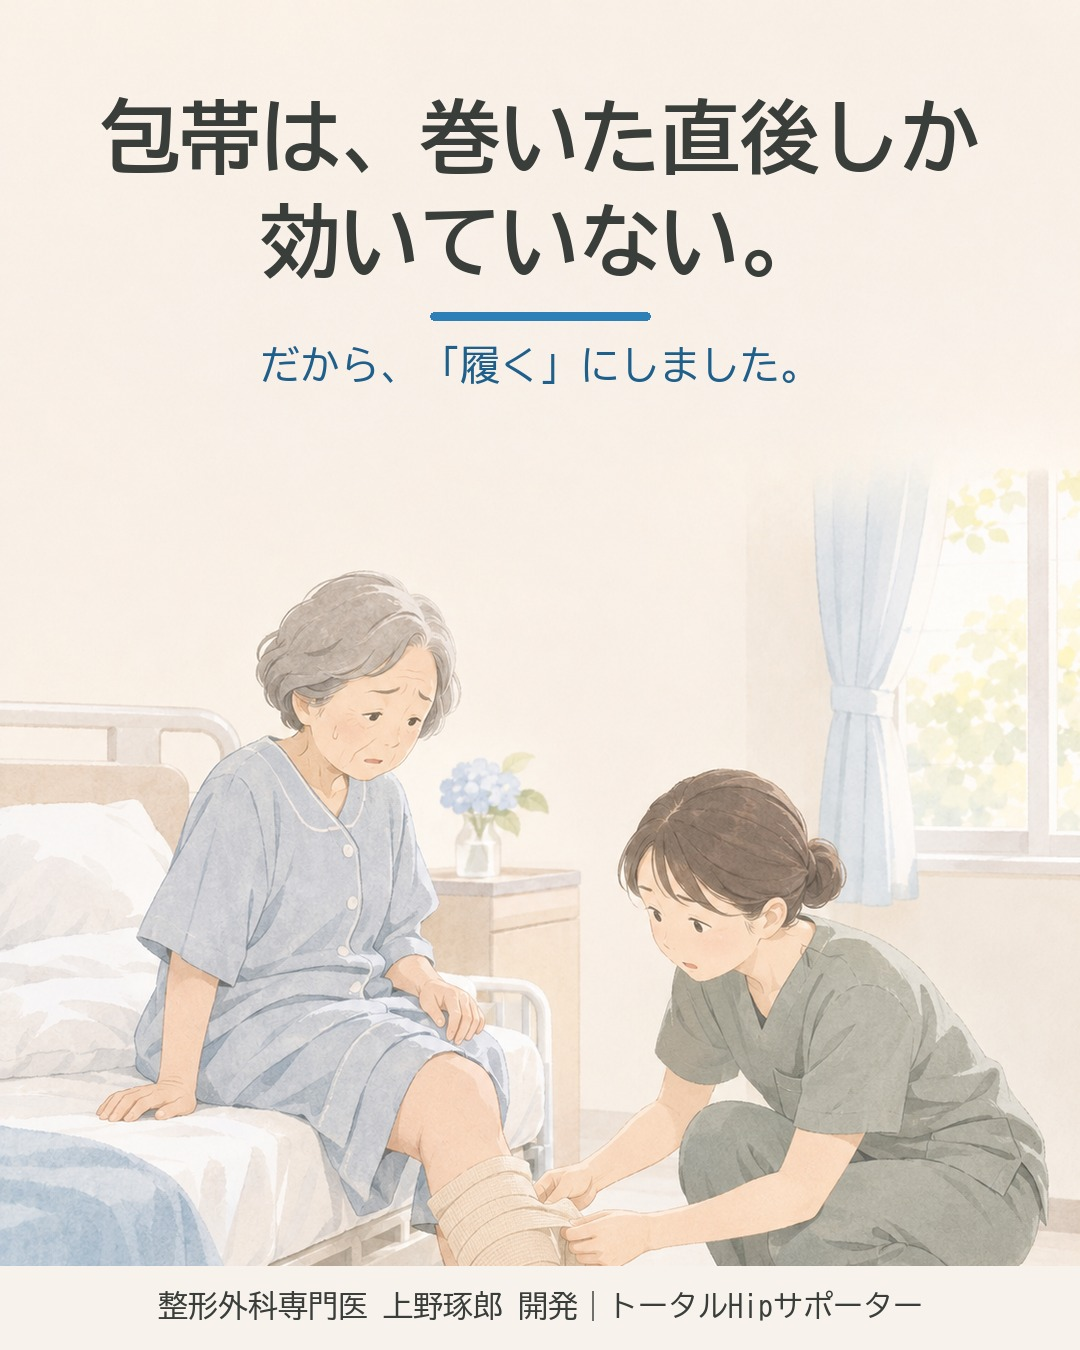
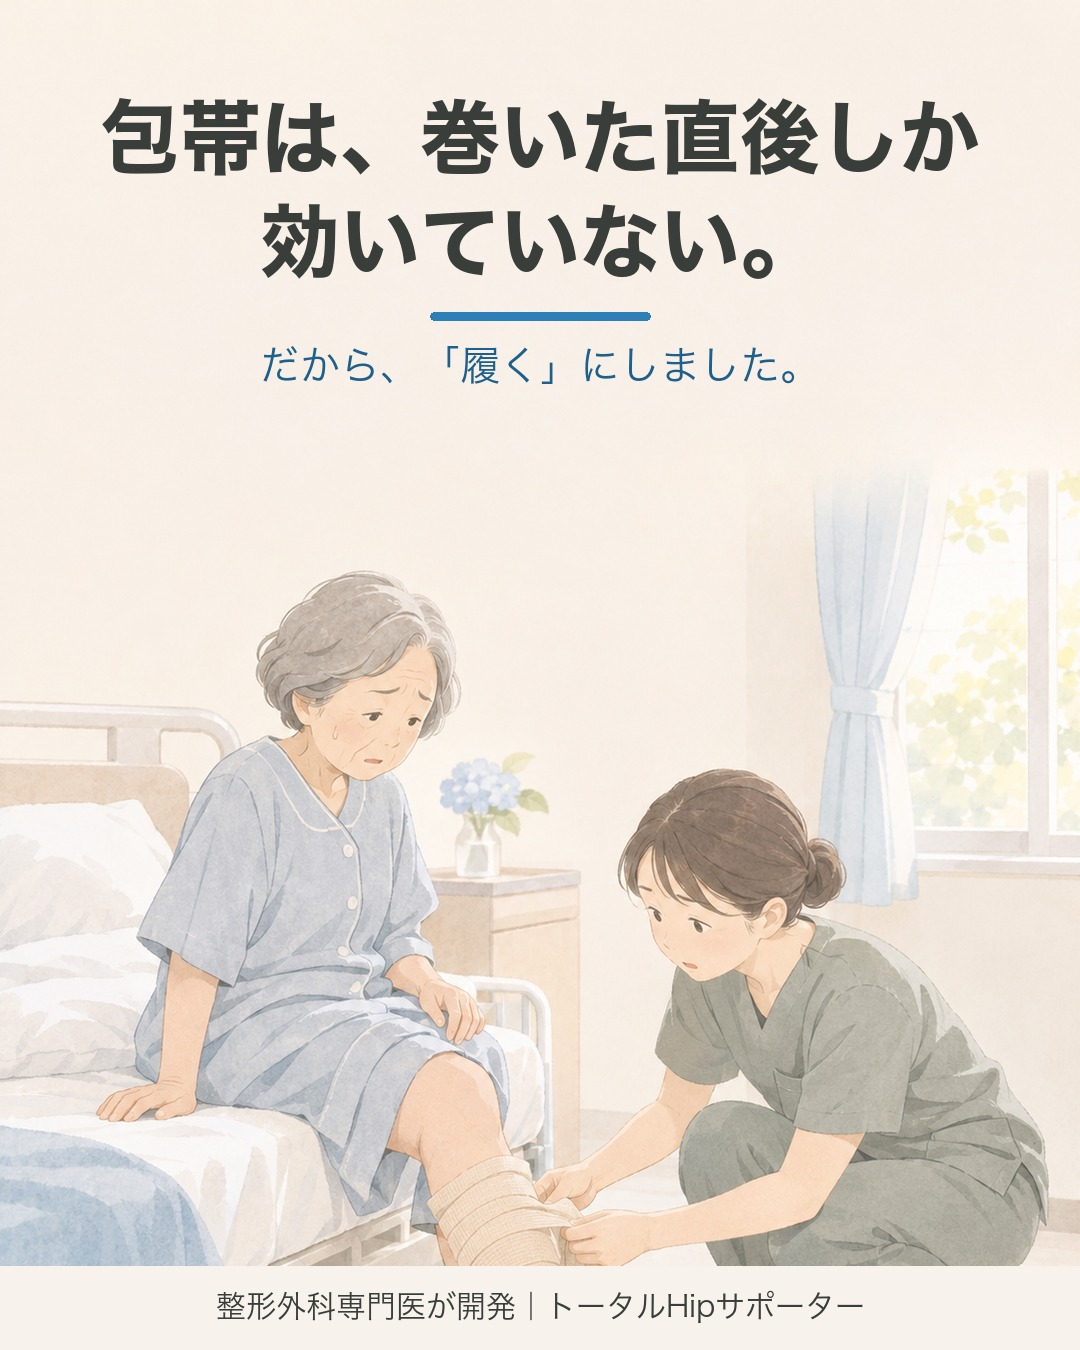
Instagram投稿の組み直しとストーリーズ1週間分を記録
氏名入りのまま残っていた#01画像を氏名なし版に置換。誤削除後の予約（11/8〜11/17）と、
11/8〜11/14毎日12:00のストーリーズ7本の予約を投稿ログへ追記。ストーリーズ画像と生成スクリプトを追加。

diff --git a/assets/instagram/make_stories.py b/assets/instagram/make_stories.py
@@ -1,0 +1,81 @@
+# -*- coding: utf-8 -*-
+"""Instagramストーリーズ画像（1080x1920）を作る。上下の操作UIに隠れない範囲に文字を置く。
+使い方: python make_stories.py
+"""
+from PIL import Image, ImageDraw, ImageFont
+import os
+
+HERE = os.path.dirname(os.path.abspath(__file__))
+OUT = os.path.join(HERE, "stories")
+POSTS = os.path.join(HERE, "posts")
+SITE = os.path.join(HERE, "..", "..", "site", "images")
+FB = r"C:\Windows\Fonts\BIZ-UDGothicB.ttc"
+FR = r"C:\Windows\Fonts\BIZ-UDGothicR.ttc"
+INK = (58, 62, 58); BLUE = (45, 127, 184); BLUED = (31, 95, 139); CREAM = (247, 243, 236); GREY = (110, 110, 105)
+FOOT = "整形外科専門医が開発｜トータルHipサポーター"
+NOTE = "※本品は医療機器ではありません。ご使用は医師の指導のもとで。"
+W, H = 1080, 1920
+TOP, IMG_T, IMG_B, NOTE_Y, FOOT_Y = 250, 690, 1370, 1400, 1510
+
+STORIES = [
+    ("1108_postpartum", ["骨盤ベルトを、", "トイレのたびに", "外していませんか。"], "「履く」なら、そのまま", os.path.join(POSTS, "03_src.png"), 0.85,
+     "くわしくはプロフィールのリンクから"),
+    ("1109_size", ["迷ったら、", "1〜2サイズ上。"], "圧迫力を強めにつくっているから", os.path.join(SITE, "illust-senior-wear.webp"), 0.5,
+     "サイズの相談はDMへ（ウエスト・太もも周りを教えてください）"),
+    ("1110_knit", ["靴下メーカーが、", "編んでいます。"], "弱・中・強の3段階は、編み方そのもので", os.path.join(SITE, "illust-senior-zone.webp"), 0.5,
+     "富山県高岡市・助野 おたすけのLAB"),
+    ("1111_bandage", ["包帯は、巻いた直後しか", "効いていない。"], "だから、「履く」にしました。", os.path.join(POSTS, "01_src.png"), 0.85,
+     "くわしくはプロフィールのリンクから"),
+    ("1112_catheter", ["手術直後から", "使えるのは、", "開口部があるから。"], "カテーテルを通して履けます", os.path.join(SITE, "illust-surgery-wear.webp"), 0.5,
+     "くわしい手順はプロフィールのリンクから"),
+    ("1113_wear", ["動くときに履く。", "休むときは脱ぐ。"], "散歩、買い物、リハビリに", os.path.join(SITE, "illust-senior-exercise.webp"), 0.5,
+     "自宅でできる体操はプロフィールのリンクから"),
+    ("1114_walk", ["散歩に行くとき、", "履く。"], "衣服の下に目立たない、薄手のメッシュ", os.path.join(POSTS, "07_src.png"), 0.8,
+     "くわしくはプロフィールのリンクから"),
+]
+
+
+def tw(d, s, f):
+    l, t, r, b = d.textbbox((0, 0), s, font=f)
+    return r - l
+
+
+def center(d, y, s, f, fill):
+    d.text(((W - tw(d, s, f)) / 2, y), s, font=f, fill=fill)
+
+
+def fit(d, s, path, max_w, start):
+    size = start
+    while size > 30 and tw(d, s, ImageFont.truetype(path, size)) > max_w:
+        size -= 2
+    return ImageFont.truetype(path, size)
+
+
+def cover(img, w, h, anchor):
+    r = max(w / img.width, h / img.height)
+    im = img.resize((round(img.width * r), round(img.height * r)), Image.LANCZOS)
+    x = (im.width - w) // 2; y = round((im.height - h) * anchor)
+    return im.crop((x, y, x + w, y + h))
+
+
+def make(name, head, sub, src, anchor, note):
+    base = Image.new("RGB", (W, H), CREAM)
+    base.paste(cover(Image.open(src).convert("RGB"), W, IMG_B - IMG_T, anchor), (0, IMG_T))
+    d = ImageDraw.Draw(base)
+    size = min(fit(d, s, FB, W * 0.88, 76).size for s in head)
+    f = ImageFont.truetype(FB, size)
+    y = TOP if len(head) == 3 else TOP + 44
+    for line in head:
+        center(d, y, line, f, INK); y += int(size * 1.3)
+    d.rounded_rectangle((W / 2 - 110, y + 6, W / 2 + 110, y + 14), radius=4, fill=BLUE)
+    center(d, y + 34, sub, fit(d, sub, FR, W * 0.88, 38), BLUED)
+    center(d, NOTE_Y, note, fit(d, note, FR, W * 0.88, 34), BLUED)
+    center(d, NOTE_Y + 52, NOTE, fit(d, NOTE, FR, W * 0.88, 26), GREY)
+    center(d, FOOT_Y, FOOT, ImageFont.truetype(FR, 30), INK)
+    base.save(os.path.join(OUT, name + ".jpg"), quality=92)
+
+
+if __name__ == "__main__":
+    os.makedirs(OUT, exist_ok=True)
+    for s in STORIES:
+        make(*s)

diff --git a/docs/instagram/運用設計_2026-11-01.md b/docs/instagram/運用設計_2026-11-01.md
@@ -332,4 +332,15 @@ doi: 10.1016/j.jjoisr.2026.04.002
 
 2026-11-06 追記: #07は氏名入り画像のまま11/5に公開された（要削除・再投稿）。#03は Business Suite の「投稿の編集」で氏名なし画像に差し替え済み（11/8 19:00のまま）。#11は本文・画像とも氏名ありで予約が残っており、ユーザーが下書きへ移す。#06・#02は予約されていない。Instagram本体の日時指定カレンダーにはBusiness Suiteの予約が出ない。
 
+2026-11-07 追記: ユーザーが誤って公開済み2本（#01・#07）と予約の#11を削除したため、氏名なしで組み直した。Business Suiteの予約は次の4本。
+
+| 日時（予約） | # | 内容 | 画像 |
+|---|---|---|---|
+| 2026-11-08 19:00 | #03 産後 | 骨盤ベルトを、トイレのたびに外していませんか。 | `posts/03_postpartum_1080x1350.jpg` |
+| 2026-11-11 19:00 | #01 術後 | 包帯は、巻いた直後しか効いていない。 | `posts/01_bandage_1080x1350.jpg`（氏名なし版に置換済み） |
+| 2026-11-14 19:00 | #07 シニア | 散歩に行くとき、履く。 | `posts/07_walk_1080x1350.jpg` |
+| 2026-11-17 19:00 | #11 論文 | 手術後の腫れを、数字で見る。 | `posts/11_paper_1080x1350.jpg` |
+
+2026-11-07 追記: ストーリーズを11/8〜11/14の毎日12:00に7本予約した（ユーザー指示で当面1週間は毎日。画像 `assets/instagram/stories/`、生成 `make_stories.py`）。11/8産後・11/9サイズ（DM相談の案内あり）・11/10編み方・11/11包帯・11/12開口部・11/13動くときに履く・11/14散歩。確認先は コンテンツ → ストーリーズ → 予定。
+
 予約の確認・変更: Meta Business Suite → コンテンツ → 日時指定済み（@total_hip_supporter）。Instagram本体の投稿画面には予約項目が出ないため、予約は Business Suite で行う（「Instagramでログイン」で入れる）。
